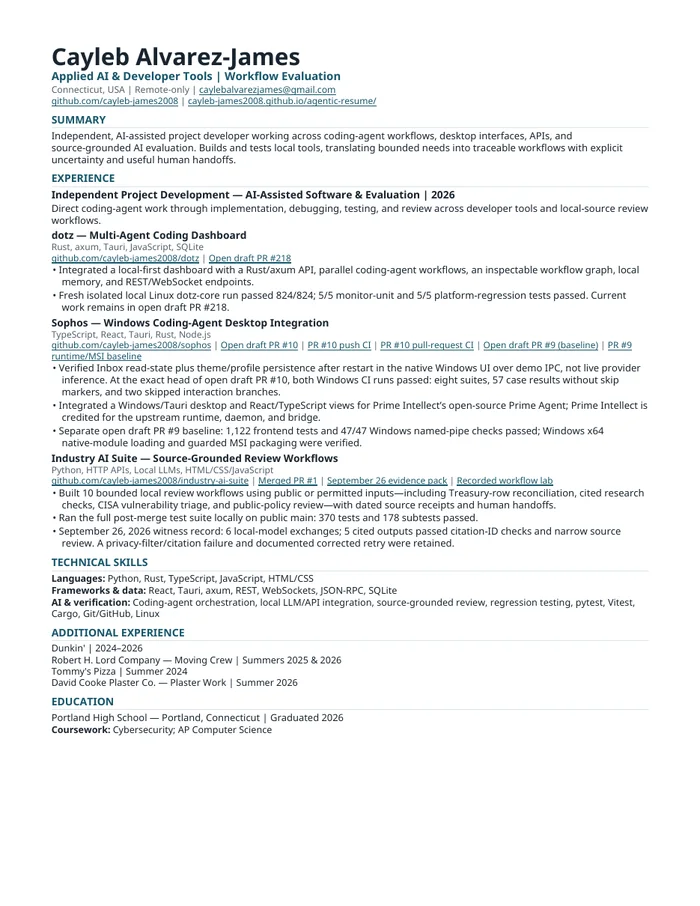
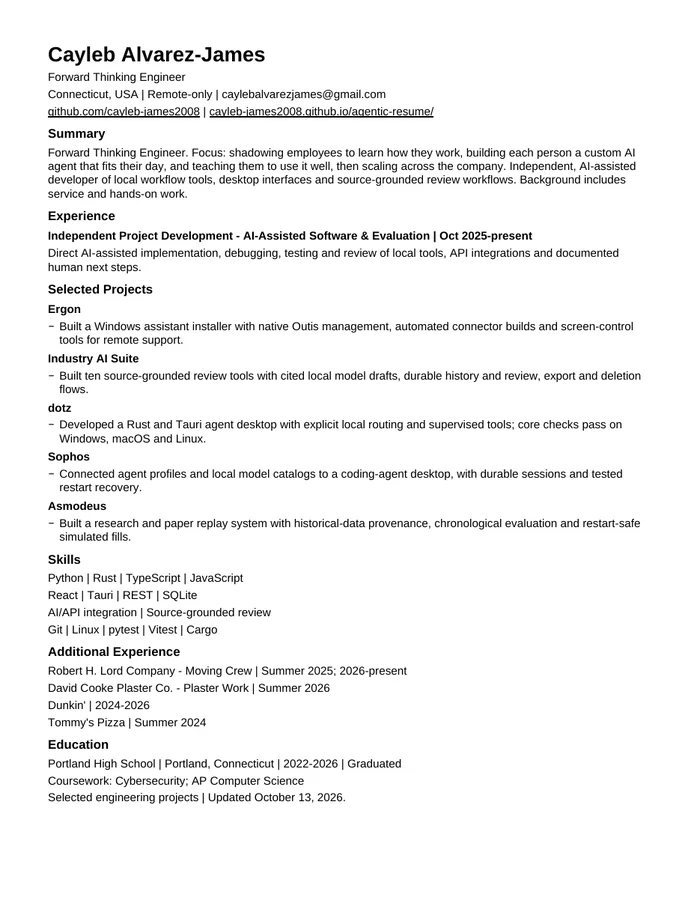
Update Ergon resume scope for connectors and visual support

Changed region(s): [[0.06, 0.0309, 0.93, 0.8962]]

diff --git a/projects/ergon.html b/projects/ergon.html
@@ -1,2 +1,2 @@
 <!doctype html>
-<html lang="en"><head><meta charset="utf-8"><meta name="viewport" content="width=device-width,initial-scale=1"><title>Ergon — Cayleb Alvarez-James</title><meta name="description" content="A Windows employee-assistant installer, with Outis taskbar management and a Linux support desk."><link rel="canonical" href="https://cayleb-james2008.github.io/agentic-resume/projects/ergon.html"><meta property="og:type" content="website"><meta property="og:site_name" content="Cayleb Alvarez-James"><meta property="og:title" content="Ergon — Cayleb Alvarez-James"><meta property="og:description" content="A Windows employee-assistant installer, with Outis taskbar management and a Linux support desk."><meta property="og:url" content="https://cayleb-james2008.github.io/agentic-resume/projects/ergon.html"><meta property="og:image" content="https://cayleb-james2008.github.io/agentic-resume/assets/og/card.png"><meta property="og:image:width" content="1200"><meta property="og:image:height" content="630"><meta property="og:image:alt" content="Illustration: Cayleb as a 3D character beside his glass-droplet AI agent, with his name and the title Forward Thinking Engineer."><meta name="twitter:card" content="summary_large_image"><meta name="twitter:title" content="Ergon — Cayleb Alvarez-James"><meta name="twitter:description" content="A Windows employee-assistant installer, with Outis taskbar management and a Linux support desk."><meta name="twitter:image" content="https://cayleb-james2008.github.io/agentic-resume/assets/og/card.png"><meta name="twitter:image:alt" content="Illustration: Cayleb as a 3D character beside his glass-droplet AI agent, with his name and the title Forward Thinking Engineer."><meta name="theme-color" content="#090a0b"><link rel="icon" href="../favicon.svg" type="image/svg+xml"><link rel="stylesheet" href="../site/css/tokens.css"><link rel="stylesheet" href="../site/css/base.css"><link rel="stylesheet" href="../site/css/subpage.css"></head><body class="project-page"><a class="skip-link" href="#main">Skip to content</a><header class="sub-masthead"><a class="sub-wordmark" href="../index.html" aria-label="Cayleb Alvarez-James, home">CAYLEB.AJ</a><nav aria-label="Primary"><ul><li><a href="../index.html#experience">Experience</a></li><li><a href="../index.html#approach">How I work</a></li><li><a href="../index.html#work">Projects</a></li><li><a href="../lab/">Lab</a></li><li><a href="../index.html#contact">Contact</a></li></ul></nav><a class="sub-resume" href="../Cayleb-James-polished-resume.pdf" download>Résumé PDF</a></header><main id="main"><header class="project-hero"><div class="wrap"><p class="case-hero__meta">Independent engineering project · October 13, 2026</p><h1 class="case-hero__title">Ergon</h1><p class="case-hero__out">A Windows employee-assistant installer, with Outis taskbar management and a Linux support desk.</p></div></header><div class="wrap project-layout"><article class="project-content"><section><h2>Built around the employee</h2><p>Ergon gives each employee an OpenClaw workspace, preserves their data through upgrades, and configures a lightweight assistant with bounded expert consultation. Outis provides a neutral taskbar interface for setup, support requests and connection status.</p></section><section><h2>Reviewed remote support</h2><p>A request is previewed before sending. Device-scoped access, immutable retries, durable SQLite storage and fenced repair leases keep delivery and ownership explicit. Connection status comes from a fresh authenticated remote-manager observation. A repair outcome includes an operator receipt.</p></section><section><h2>Phone and workflow integration</h2><p>Reviewed onboarding turns an approved work example into a versioned assistant workflow, with separate activation and rollback. Hosted voice workflows require exact operator approval and share a budget with model calls. Contacts and provider settings stay in protected local configuration.</p></section><section><h2>Verification</h2><p>Source tests cover support persistence, scoped access, lease expiry, minimized notifications, and uncertain delivery retries. The Outis dashboard was checked in a browser, and its Windows helper compiles against pinned .NET Framework references.</p></section><section><h2>Pilot acceptance</h2><p>Native Windows installation, reboot reconnection, an automatic Work repair, exact model calls, mobile access and an approved voice call still require live checks. The candidate is not described as a completed deployment.</p></section><section><h2>Source access</h2><p>The implementation and enrollment packages are private. This page publishes the engineering scope and verification boundaries without employee information or access credentials.</p></section></article><aside class="project-aside"><h2>Evidence</h2><p>Private source. Windows pilot acceptance is tracked separately from compilation and source tests.</p><p><a href="../resume.html">Read the résumé</a></p></aside></div></main><footer class="sub-footer"><p>© 2026 Cayleb Alvarez-James. Illustrations generated with AI.</p><ul aria-label="Elsewhere"><li><a href="https://github.com/cayleb-james2008">GitHub</a></li><li><a href="mailto:caylebalvarezjames@gmail.com">Email</a></li><li><a href="../Cayleb-James-polished-one-page.pdf" download>One-page PDF</a></li></ul></footer></body></html>
+<html lang="en"><head><meta charset="utf-8"><meta name="viewport" content="width=device-width,initial-scale=1"><title>Ergon — Cayleb Alvarez-James</title><meta name="description" content="A Windows employee-assistant installer, with Outis taskbar management and a Linux support desk."><link rel="canonical" href="https://cayleb-james2008.github.io/agentic-resume/projects/ergon.html"><meta property="og:type" content="website"><meta property="og:site_name" content="Cayleb Alvarez-James"><meta property="og:title" content="Ergon — Cayleb Alvarez-James"><meta property="og:description" content="A Windows employee-assistant installer, with Outis taskbar management and a Linux support desk."><meta property="og:url" content="https://cayleb-james2008.github.io/agentic-resume/projects/ergon.html"><meta property="og:image" content="https://cayleb-james2008.github.io/agentic-resume/assets/og/card.png"><meta property="og:image:width" content="1200"><meta property="og:image:height" content="630"><meta property="og:image:alt" content="Illustration: Cayleb as a 3D character beside his glass-droplet AI agent, with his name and the title Forward Thinking Engineer."><meta name="twitter:card" content="summary_large_image"><meta name="twitter:title" content="Ergon — Cayleb Alvarez-James"><meta name="twitter:description" content="A Windows employee-assistant installer, with Outis taskbar management and a Linux support desk."><meta name="twitter:image" content="https://cayleb-james2008.github.io/agentic-resume/assets/og/card.png"><meta name="twitter:image:alt" content="Illustration: Cayleb as a 3D character beside his glass-droplet AI agent, with his name and the title Forward Thinking Engineer."><meta name="theme-color" content="#090a0b"><link rel="icon" href="../favicon.svg" type="image/svg+xml"><link rel="stylesheet" href="../site/css/tokens.css"><link rel="stylesheet" href="../site/css/base.css"><link rel="stylesheet" href="../site/css/subpage.css"></head><body class="project-page"><a class="skip-link" href="#main">Skip to content</a><header class="sub-masthead"><a class="sub-wordmark" href="../index.html" aria-label="Cayleb Alvarez-James, home">CAYLEB.AJ</a><nav aria-label="Primary"><ul><li><a href="../index.html#experience">Experience</a></li><li><a href="../index.html#approach">How I work</a></li><li><a href="../index.html#work">Projects</a></li><li><a href="../lab/">Lab</a></li><li><a href="../index.html#contact">Contact</a></li></ul></nav><a class="sub-resume" href="../Cayleb-James-polished-resume.pdf" download>Résumé PDF</a></header><main id="main"><header class="project-hero"><div class="wrap"><p class="case-hero__meta">Independent engineering project · October 13, 2026</p><h1 class="case-hero__title">Ergon</h1><p class="case-hero__out">A Windows employee-assistant installer, with Outis taskbar management and a Linux support desk.</p></div></header><div class="wrap project-layout"><article class="project-content"><section><h2>Built around the employee</h2><p>Ergon gives each employee an OpenClaw workspace, preserves their data through upgrades, and configures a lightweight assistant with bounded expert consultation. Outis provides a neutral taskbar interface for setup, support requests and connection status.</p></section><section><h2>Screen-based remote maintenance</h2><p>Reviewed tickets use durable storage, immutable retries and fenced repair leases. Each maintenance worker is bound to one Windows device, with PowerShell, diagnostics, power/reconnect tools and a real remote Desktop canvas. PNG image tool results support screen inspection, mouse and keyboard input; further actions invalidate prior visual evidence.</p></section><section><h2>Automatic connector builds</h2><p>A ticket queues a separate builder that reads public API documentation, generates a declarative REST manifest and tests the trusted template. Employees grant exact read/write operations and enter account credentials through protected Windows setup. Activation and rollback require a local Gateway reload and tool-registry check.</p></section><section><h2>Phone and workflow integration</h2><p>Reviewed onboarding turns an approved work example into a versioned assistant workflow, with separate activation and rollback. Hosted voice workflows require exact operator approval and share a budget with model calls. Contacts and provider settings stay in protected local configuration.</p></section><section><h2>Verification</h2><p>Source tests cover device isolation, lease expiry, connector grants, receipt retries, interrupted installs and Gateway contracts. A real browser fixture exercises screenshots, pointer and keyboard input, reconnect and image-content delivery. Native helpers compile against pinned .NET Framework references.</p></section><section><h2>Pilot acceptance</h2><p>Native Windows installation, real screen control, reboot reconnection, a live connector account call, an automatic Work repair, exact model calls, mobile access and an approved voice call still require live checks. The candidate is not described as a completed deployment.</p></section><section><h2>Source access</h2><p>The implementation and enrollment packages are private. This page publishes the engineering scope and verification boundaries without employee information or access credentials.</p></section></article><aside class="project-aside"><h2>Evidence</h2><p>Private source. Windows pilot acceptance is tracked separately from compilation and source tests.</p><p><a href="../resume.html">Read the résumé</a></p></aside></div></main><footer class="sub-footer"><p>© 2026 Cayleb Alvarez-James. Illustrations generated with AI.</p><ul aria-label="Elsewhere"><li><a href="https://github.com/cayleb-james2008">GitHub</a></li><li><a href="mailto:caylebalvarezjames@gmail.com">Email</a></li><li><a href="../Cayleb-James-polished-one-page.pdf" download>One-page PDF</a></li></ul></footer></body></html>

diff --git a/resume.html b/resume.html
@@ -3,7 +3,7 @@
 <article class="resume-sheet">
 <header class="resume-heading"><div><p class="eyebrow">Résumé</p><h1 id="resume-title" tabindex="-1">Cayleb Alvarez-James</h1><p>Forward Thinking Engineer · Connecticut · Remote-only</p></div><div class="resume-contact"><a href="mailto:caylebalvarezjames@gmail.com">caylebalvarezjames@gmail.com</a><a href="https://github.com/cayleb-james2008">github.com/cayleb-james2008</a></div></header>
 <div class="resume-summary"><h2>Summary</h2><p>Forward Thinking Engineer. Focus: shadowing employees to learn how they work, building each person a custom AI agent that fits their day, and teaching them to use it well, then scaling across the company. Independent, AI-assisted developer of local workflow tools, desktop interfaces and source-grounded review workflows. Background includes service and hands-on work.</p></div>
-<div class="resume-columns"><div><section><h2>Experience</h2><h3>Independent project development</h3><p class="resume-date">Oct 2025–present</p><p>Direct AI-assisted implementation, debugging, testing and review of local tools, API integrations and documented human next steps.</p><div class="resume-jobs"><p><strong>Robert H. Lord Company · Moving Crew</strong><span>Summer 2025; 2026–present</span></p><p><strong>David Cooke Plaster Co. · Plaster Work</strong><span>Summer 2026</span></p><p><strong>Dunkin’</strong><span>2024–2026</span></p><p><strong>Tommy’s Pizza</strong><span>Summer 2024</span></p></div></section><section><h2>Education</h2><h3>Portland High School</h3><p>Portland, Connecticut · 2022–2026 · Graduated<br>Cybersecurity; AP Computer Science</p></section></div><div><section><h2>Selected projects</h2><div class="resume-selected"><h3><a href="https://cayleb-james2008.github.io/agentic-resume/projects/ergon.html" data-goto-project="ergon">Ergon ↗</a></h3><p>Built a Windows employee-assistant installer with reviewed onboarding, Outis support management, approved phone workflows and shared AI budgets.</p><h3><a href="https://github.com/cayleb-james2008/industry-ai-suite" data-goto-project="suite">Industry AI Suite ↗</a></h3><p>Built ten source-grounded review tools with cited local model drafts, durable history and review, export and deletion flows.</p><h3><a href="https://github.com/cayleb-james2008/dotz" data-goto-project="dotz">dotz ↗</a></h3><p>Developed a Rust and Tauri agent desktop with explicit local routing and supervised tools; core checks pass on Windows, macOS and Linux.</p><h3><a href="https://github.com/cayleb-james2008/sophos" data-goto-project="sophos">Sophos ↗</a></h3><p>Connected agent profiles and local model catalogs to a coding-agent desktop, with durable sessions and tested restart recovery.</p><h3><a href="https://cayleb-james2008.github.io/agentic-resume/projects/asmodeus.html" data-goto-project="asmodeus">Asmodeus ↗</a></h3><p>Built a research and paper replay system with historical-data provenance, chronological evaluation and restart-safe simulated fills.</p></div></section><section><h2>Skills</h2><p>Python · Rust · TypeScript · JavaScript<br>React · Tauri · REST · SQLite<br>AI/API integration · Source-grounded review<br>Git · Linux · pytest · Vitest · Cargo</p></section></div></div>
+<div class="resume-columns"><div><section><h2>Experience</h2><h3>Independent project development</h3><p class="resume-date">Oct 2025–present</p><p>Direct AI-assisted implementation, debugging, testing and review of local tools, API integrations and documented human next steps.</p><div class="resume-jobs"><p><strong>Robert H. Lord Company · Moving Crew</strong><span>Summer 2025; 2026–present</span></p><p><strong>David Cooke Plaster Co. · Plaster Work</strong><span>Summer 2026</span></p><p><strong>Dunkin’</strong><span>2024–2026</span></p><p><strong>Tommy’s Pizza</strong><span>Summer 2024</span></p></div></section><section><h2>Education</h2><h3>Portland High School</h3><p>Portland, Connecticut · 2022–2026 · Graduated<br>Cybersecurity; AP Computer Science</p></section></div><div><section><h2>Selected projects</h2><div class="resume-selected"><h3><a href="https://cayleb-james2008.github.io/agentic-resume/projects/ergon.html" data-goto-project="ergon">Ergon ↗</a></h3><p>Built a Windows assistant installer with native Outis management, automated connector builds and screen-control tools for remote support.</p><h3><a href="https://github.com/cayleb-james2008/industry-ai-suite" data-goto-project="suite">Industry AI Suite ↗</a></h3><p>Built ten source-grounded review tools with cited local model drafts, durable history and review, export and deletion flows.</p><h3><a href="https://github.com/cayleb-james2008/dotz" data-goto-project="dotz">dotz ↗</a></h3><p>Developed a Rust and Tauri agent desktop with explicit local routing and supervised tools; core checks pass on Windows, macOS and Linux.</p><h3><a href="https://github.com/cayleb-james2008/sophos" data-goto-project="sophos">Sophos ↗</a></h3><p>Connected agent profiles and local model catalogs to a coding-agent desktop, with durable sessions and tested restart recovery.</p><h3><a href="https://cayleb-james2008.github.io/agentic-resume/projects/asmodeus.html" data-goto-project="asmodeus">Asmodeus ↗</a></h3><p>Built a research and paper replay system with historical-data provenance, chronological evaluation and restart-safe simulated fills.</p></div></section><section><h2>Skills</h2><p>Python · Rust · TypeScript · JavaScript<br>React · Tauri · REST · SQLite<br>AI/API integration · Source-grounded review<br>Git · Linux · pytest · Vitest · Cargo</p></section></div></div>
 <footer class="resume-actions"><a class="button primary" href="Cayleb-James-polished-one-page.pdf" download>One-page résumé PDF ↓</a><a class="quiet" href="Cayleb-James-polished-resume.pdf" download>Detailed résumé PDF ↓</a><a class="quiet" href="Cayleb-James-polished-one-page.txt" download>One-page text ↓</a><a class="quiet" href="Cayleb-James-polished-resume.txt" download>Detailed text ↓</a><a class="quiet" href="mailto:caylebalvarezjames@gmail.com">Let’s talk ↗</a><p>Selected engineering projects · Updated October 13, 2026.</p></footer>
 </article>
 </section></main><footer class="resume-footer"><p>© 2026 Cayleb Alvarez-James. Illustrations generated with AI.</p><ul aria-label="Elsewhere"><li><a href="https://github.com/cayleb-james2008">GitHub</a></li><li><a href="mailto:caylebalvarezjames@gmail.com">Email</a></li><li><a href="Cayleb-James-polished-one-page.pdf" download>One-page PDF</a></li></ul></footer></body></html>

diff --git a/resume/candidate-fragment.html b/resume/candidate-fragment.html
@@ -2,7 +2,7 @@
 <article class="resume-sheet">
 <header class="resume-heading"><div><p class="eyebrow">Résumé</p><h1 id="resume-title" tabindex="-1">Cayleb Alvarez-James</h1><p>Forward Thinking Engineer · Connecticut · Remote-only</p></div><div class="resume-contact"><a href="mailto:caylebalvarezjames@gmail.com">caylebalvarezjames@gmail.com</a><a href="https://github.com/cayleb-james2008">github.com/cayleb-james2008</a></div></header>
 <div class="resume-summary"><h2>Summary</h2><p>Forward Thinking Engineer. Focus: shadowing employees to learn how they work, building each person a custom AI agent that fits their day, and teaching them to use it well, then scaling across the company. Independent, AI-assisted developer of local workflow tools, desktop interfaces and source-grounded review workflows. Background includes service and hands-on work.</p></div>
-<div class="resume-columns"><div><section><h2>Experience</h2><h3>Independent project development</h3><p class="resume-date">Oct 2025–present</p><p>Direct AI-assisted implementation, debugging, testing and review of local tools, API integrations and documented human next steps.</p><div class="resume-jobs"><p><strong>Robert H. Lord Company · Moving Crew</strong><span>Summer 2025; 2026–present</span></p><p><strong>David Cooke Plaster Co. · Plaster Work</strong><span>Summer 2026</span></p><p><strong>Dunkin’</strong><span>2024–2026</span></p><p><strong>Tommy’s Pizza</strong><span>Summer 2024</span></p></div></section><section><h2>Education</h2><h3>Portland High School</h3><p>Portland, Connecticut · 2022–2026 · Graduated<br>Cybersecurity; AP Computer Science</p></section></div><div><section><h2>Selected projects</h2><div class="resume-selected"><h3><a href="https://cayleb-james2008.github.io/agentic-resume/projects/ergon.html" data-goto-project="ergon">Ergon ↗</a></h3><p>Built a Windows employee-assistant installer with reviewed onboarding, Outis support management, approved phone workflows and shared AI budgets.</p><h3><a href="https://github.com/cayleb-james2008/industry-ai-suite" data-goto-project="suite">Industry AI Suite ↗</a></h3><p>Built ten source-grounded review tools with cited local model drafts, durable history and review, export and deletion flows.</p><h3><a href="https://github.com/cayleb-james2008/dotz" data-goto-project="dotz">dotz ↗</a></h3><p>Developed a Rust and Tauri agent desktop with explicit local routing and supervised tools; core checks pass on Windows, macOS and Linux.</p><h3><a href="https://github.com/cayleb-james2008/sophos" data-goto-project="sophos">Sophos ↗</a></h3><p>Connected agent profiles and local model catalogs to a coding-agent desktop, with durable sessions and tested restart recovery.</p><h3><a href="https://cayleb-james2008.github.io/agentic-resume/projects/asmodeus.html" data-goto-project="asmodeus">Asmodeus ↗</a></h3><p>Built a research and paper replay system with historical-data provenance, chronological evaluation and restart-safe simulated fills.</p></div></section><section><h2>Skills</h2><p>Python · Rust · TypeScript · JavaScript<br>React · Tauri · REST · SQLite<br>AI/API integration · Source-grounded review<br>Git · Linux · pytest · Vitest · Cargo</p></section></div></div>
+<div class="resume-columns"><div><section><h2>Experience</h2><h3>Independent project development</h3><p class="resume-date">Oct 2025–present</p><p>Direct AI-assisted implementation, debugging, testing and review of local tools, API integrations and documented human next steps.</p><div class="resume-jobs"><p><strong>Robert H. Lord Company · Moving Crew</strong><span>Summer 2025; 2026–present</span></p><p><strong>David Cooke Plaster Co. · Plaster Work</strong><span>Summer 2026</span></p><p><strong>Dunkin’</strong><span>2024–2026</span></p><p><strong>Tommy’s Pizza</strong><span>Summer 2024</span></p></div></section><section><h2>Education</h2><h3>Portland High School</h3><p>Portland, Connecticut · 2022–2026 · Graduated<br>Cybersecurity; AP Computer Science</p></section></div><div><section><h2>Selected projects</h2><div class="resume-selected"><h3><a href="https://cayleb-james2008.github.io/agentic-resume/projects/ergon.html" data-goto-project="ergon">Ergon ↗</a></h3><p>Built a Windows assistant installer with native Outis management, automated connector builds and screen-control tools for remote support.</p><h3><a href="https://github.com/cayleb-james2008/industry-ai-suite" data-goto-project="suite">Industry AI Suite ↗</a></h3><p>Built ten source-grounded review tools with cited local model drafts, durable history and review, export and deletion flows.</p><h3><a href="https://github.com/cayleb-james2008/dotz" data-goto-project="dotz">dotz ↗</a></h3><p>Developed a Rust and Tauri agent desktop with explicit local routing and supervised tools; core checks pass on Windows, macOS and Linux.</p><h3><a href="https://github.com/cayleb-james2008/sophos" data-goto-project="sophos">Sophos ↗</a></h3><p>Connected agent profiles and local model catalogs to a coding-agent desktop, with durable sessions and tested restart recovery.</p><h3><a href="https://cayleb-james2008.github.io/agentic-resume/projects/asmodeus.html" data-goto-project="asmodeus">Asmodeus ↗</a></h3><p>Built a research and paper replay system with historical-data provenance, chronological evaluation and restart-safe simulated fills.</p></div></section><section><h2>Skills</h2><p>Python · Rust · TypeScript · JavaScript<br>React · Tauri · REST · SQLite<br>AI/API integration · Source-grounded review<br>Git · Linux · pytest · Vitest · Cargo</p></section></div></div>
 <footer class="resume-actions"><a class="button primary" href="Cayleb-James-polished-one-page.pdf" download>One-page résumé PDF ↓</a><a class="quiet" href="Cayleb-James-polished-resume.pdf" download>Detailed résumé PDF ↓</a><a class="quiet" href="Cayleb-James-polished-one-page.txt" download>One-page text ↓</a><a class="quiet" href="Cayleb-James-polished-resume.txt" download>Detailed text ↓</a><a class="quiet" href="mailto:caylebalvarezjames@gmail.com">Let’s talk ↗</a><p>Selected engineering projects · Updated October 13, 2026.</p></footer>
 </article>
 </section>

diff --git a/resume/resume-fragment.html b/resume/resume-fragment.html
@@ -12,8 +12,8 @@
 <h3>Ergon - Personalized Employee Assistant &amp; Remote Support</h3>
 <p>OpenClaw, Node.js, C#, Windows, SQLite</p>
 <p><a href="https://cayleb-james2008.github.io/agentic-resume/projects/ergon.html">Ergon case study</a></p>
-<p>Built a Windows employee-assistant installer with Outis taskbar management, reviewed onboarding and a Linux support service. Preserves employee data across upgrades.</p>
-<p>Implemented device-scoped support, durable repair tracking, approved phone workflows and shared AI budgets, with Haiku defaults and bounded expert consultation.</p>
+<p>Built a Windows employee-assistant installer with native Outis taskbar management and a Linux support service. Preserves employee data across upgrades.</p>
+<p>Implemented ticket-driven connector builds and device-scoped repair tools, including screen input, Gateway-checked activation/rollback and shared AI budgets.</p>
 <h3>Industry AI Suite - Source-Grounded Review Tools</h3>
 <p>Python, HTTP APIs, Local LLMs, HTML/CSS/JavaScript</p>
 <p><a href="https://github.com/cayleb-james2008/industry-ai-suite">github.com/cayleb-james2008/industry-ai-suite</a> | <a href="https://github.com/cayleb-james2008/industry-ai-suite/pull/6">Review history implementation</a></p>

diff --git a/resume/resume.md b/resume/resume.md
@@ -24,9 +24,9 @@ OpenClaw, Node.js, C#, Windows, SQLite
 
 [Ergon case study](https://cayleb-james2008.github.io/agentic-resume/projects/ergon.html)
 
-- Built a Windows employee-assistant installer with Outis taskbar management, reviewed onboarding and a Linux support service. Preserves employee data across upgrades.
+- Built a Windows employee-assistant installer with native Outis taskbar management and a Linux support service. Preserves employee data across upgrades.
 
-- Implemented device-scoped support, durable repair tracking, approved phone workflows and shared AI budgets, with Haiku defaults and bounded expert consultation.
+- Implemented ticket-driven connector builds and device-scoped repair tools, including screen input, Gateway-checked activation/rollback and shared AI budgets.
 
 ### Industry AI Suite - Source-Grounded Review Tools
 

diff --git a/resume/one-page.md b/resume/one-page.md
@@ -20,7 +20,7 @@ Direct AI-assisted implementation, debugging, testing and review of local tools,
 
 ### Ergon
 
-- Built a Windows employee-assistant installer with reviewed onboarding, Outis support management, approved phone workflows and shared AI budgets.
+- Built a Windows assistant installer with native Outis management, automated connector builds and screen-control tools for remote support.
 
 ### Industry AI Suite
 
